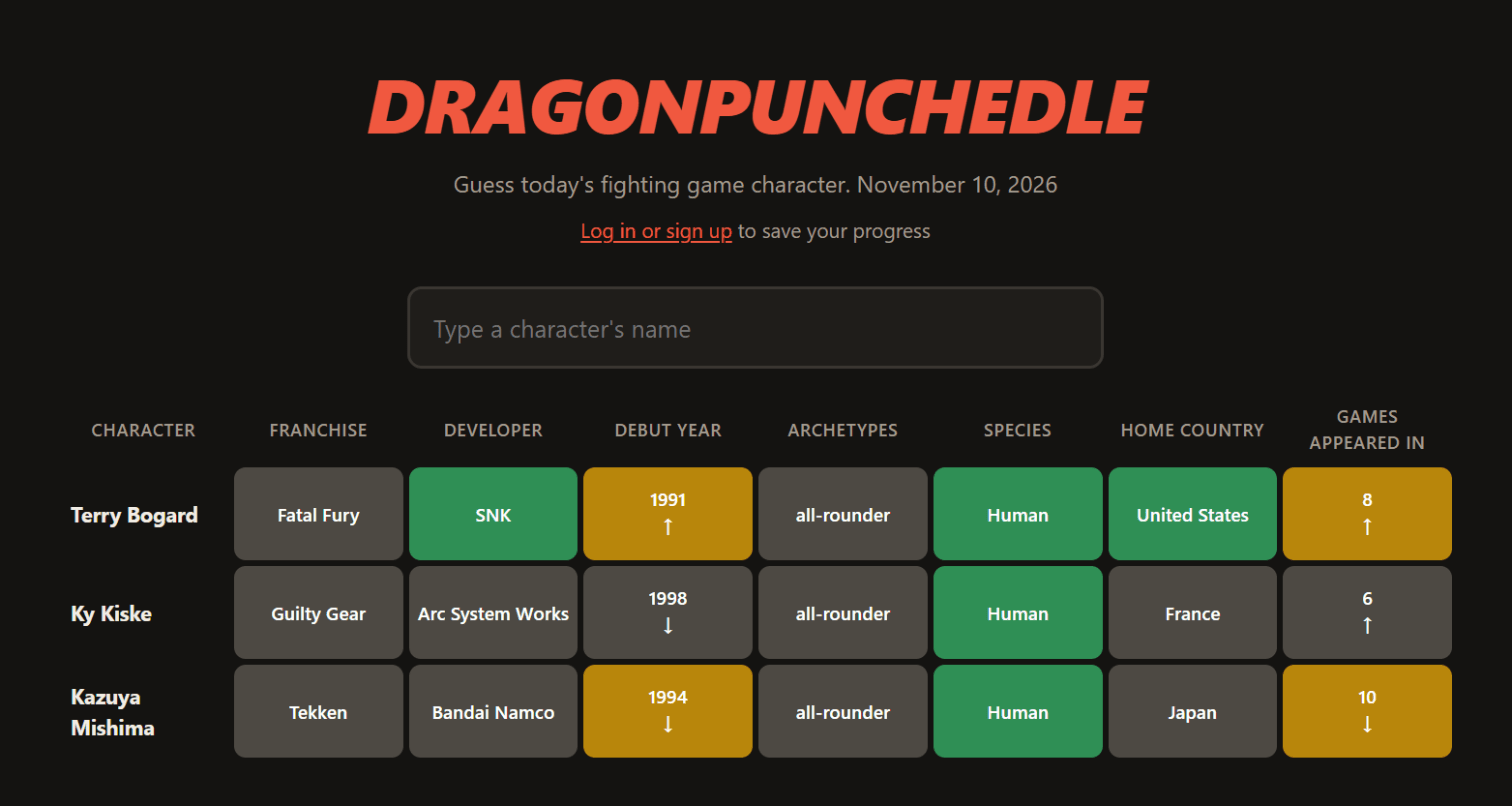
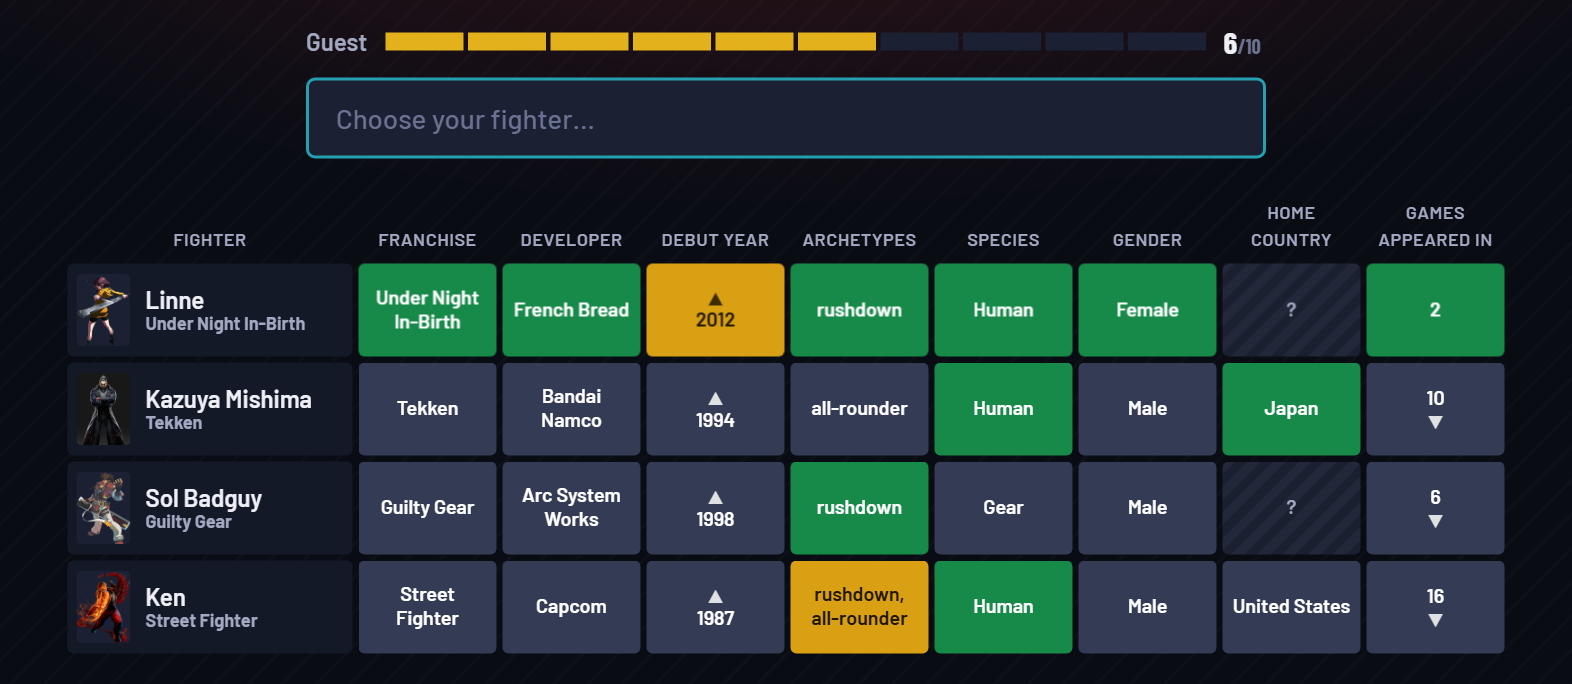
Refresh the README for launch
New screenshots of the current design (a round in progress, the guess
box, and the win screen with the results curve), and the text brought up
to date: Google sign-in on the live site and why Discord is off, guests
stored and counted, the advisory lock behind the guess limit, the results
chart, the guess rate limit, Marvel's initials cards and the Marvel vs.
Capcom counting rule.

The link-preview source is now the HTML page the current image is
rendered from (brand/og-image.html), replacing the old red SVG; npm run
brand renders it with Playwright and reproduces the live PNGs exactly.

diff --git a/apps/web/brand/og-image.html b/apps/web/brand/og-image.html
@@ -1,0 +1,119 @@
+<!doctype html>
+<html>
+  <head>
+    <meta charset="utf-8" />
+    <style>
+      @font-face {
+        font-family: "Barlow Condensed";
+        font-weight: 800;
+        src: url("../../../node_modules/@fontsource/barlow-condensed/files/barlow-condensed-latin-800-normal.woff2") format("woff2");
+      }
+      @font-face {
+        font-family: "Barlow Condensed";
+        font-weight: 700;
+        src: url("../../../node_modules/@fontsource/barlow-condensed/files/barlow-condensed-latin-700-normal.woff2") format("woff2");
+      }
+      @font-face {
+        font-family: "Barlow";
+        font-weight: 500;
+        src: url("../../../node_modules/@fontsource/barlow/files/barlow-latin-500-normal.woff2") format("woff2");
+      }
+      @font-face {
+        font-family: "Barlow";
+        font-weight: 600;
+        src: url("../../../node_modules/@fontsource/barlow/files/barlow-latin-600-normal.woff2") format("woff2");
+      }
+      * { box-sizing: border-box; margin: 0; }
+      html, body { width: 1200px; height: 630px; overflow: hidden; }
+      body {
+        position: relative;
+        color: #eef0f6;
+        font-family: "Barlow", sans-serif;
+        background:
+          radial-gradient(900px 420px at 30% -10%, rgb(255 59 48 / 0.22), transparent 65%),
+          repeating-linear-gradient(135deg, rgb(255 255 255 / 0.025) 0 3px, transparent 3px 22px),
+          #0a0c14;
+      }
+      .left { position: absolute; left: 64px; top: 100px; width: 600px; }
+      .icon { width: 96px; height: 96px; display: block; margin-bottom: 34px; }
+      .logo {
+        font-family: "Barlow Condensed";
+        font-weight: 800;
+        font-size: 78px;
+        line-height: 0.95;
+        letter-spacing: 0.02em;
+        text-transform: uppercase;
+      }
+      .logo span { color: #6fd3df; }
+      .tagline { margin-top: 24px; max-width: 560px; font-size: 32px; font-weight: 500; line-height: 1.3; color: #a3a9c2; }
+      .tagline strong { color: #eef0f6; font-weight: 600; }
+
+      .panel {
+        position: absolute;
+        right: 56px;
+        top: 150px;
+        width: 400px;
+        padding: 30px 28px 32px;
+        background: #141927;
+        clip-path: polygon(22px 0, 100% 0, 100% calc(100% - 22px), calc(100% - 22px) 100%, 0 100%, 0 22px);
+      }
+      .hud { display: flex; align-items: center; gap: 12px; margin-bottom: 26px; }
+      .hud .who { font-weight: 600; color: #a3a9c2; font-size: 20px; }
+      .health { flex: 1; display: flex; gap: 4px; }
+      .health span { flex: 1; height: 16px; background: #1b2133; }
+      .health span.full { background: #e3b11c; }
+      .hud .count { font-family: "Barlow Condensed"; font-weight: 700; font-size: 30px; line-height: 1; }
+      .hud .count small { font-size: 18px; color: #6c7392; }
+      .row { display: grid; grid-template-columns: repeat(4, 1fr); gap: 8px; margin-top: 8px; }
+      .tile {
+        height: 62px;
+        border-radius: 5px;
+        display: grid;
+        place-items: center;
+        font-family: "Barlow Condensed";
+        font-weight: 700;
+        font-size: 24px;
+        color: #fff;
+      }
+      .g { background: #178a49; }
+      .y { background: #d9a014; color: #221800; }
+      .x { background: #343b55; }
+      .caption {
+        margin-top: 22px;
+        font-size: 18px;
+        font-weight: 600;
+        letter-spacing: 0.08em;
+        text-transform: uppercase;
+        color: #6fd3df;
+      }
+    </style>
+  </head>
+  <body>
+    <div class="left">
+      <img class="icon" src="../public/favicon.svg" alt="" />
+      <h1 class="logo">Dragon<span>punched</span>le</h1>
+      <p class="tagline">Guess today's fighting game character. <strong>295 fighters, 18 franchises,</strong> a new one every day.</p>
+    </div>
+
+    <div class="panel">
+      <div class="hud">
+        <span class="who">Today</span>
+        <div class="health">
+          <span class="full"></span><span class="full"></span><span class="full"></span><span class="full"></span>
+          <span class="full"></span><span class="full"></span><span></span><span></span><span></span><span></span>
+        </div>
+        <span class="count">6<small>/10</small></span>
+      </div>
+      <div class="row">
+        <div class="tile g">✓</div><div class="tile y">▲</div><div class="tile x"></div><div class="tile g">✓</div>
+      </div>
+      <div class="row">
+        <div class="tile y"></div><div class="tile g">✓</div><div class="tile x">▼</div><div class="tile y"></div>
+      </div>
+      <div class="row">
+        <div class="tile g">✓</div><div class="tile g">✓</div><div class="tile g">✓</div><div class="tile g">✓</div>
+      </div>
+      <p class="caption">10 guesses · 8 clues</p>
+    </div>
+  </body>
+</html>

diff --git a/README.md b/README.md
@@ -1,21 +1,24 @@
 # Dragonpunchedle
 
-A daily guessing game for fighting game characters. Every day there's one mystery fighter, picked from 295 characters across 18 franchises. Each guess shows how close you are, clue by clue: franchise, developer, debut year, archetypes, species, gender, home country and number of games.
+A daily guessing game for fighting game characters. Every day there's one mystery fighter, picked from 295 characters across 18 franchises, from Street Fighter and Tekken to Guilty Gear, King of Fighters and Marvel Tōkon. You get 10 guesses. Each one shows how close you are, clue by clue: franchise, developer, debut year, archetypes, species, gender, home country and number of games.
 
 **Play it at [dragonpunchedle.onrender.com](https://dragonpunchedle.onrender.com).** It runs on a free server that sleeps when nobody is playing, so the first visit after a quiet spell can take about a minute to load.
 
-![A game in progress: three guesses with green, yellow and grey clue tiles and higher or lower arrows](docs/screenshot-board.png)
+![A round in progress: a health bar with 6 of 10 guesses left, and four guesses with green, yellow and grey clue tiles, arrows and character portraits](docs/screenshot-board.png)
 
 - 🟩 **Green:** an exact match.
 - 🟨 **Yellow:** close. That means a shared archetype, a country on the same continent, or a number near the answer.
 - ⬛ **Grey:** not it.
-- **Arrows:** whether the answer's year or game count is higher or lower.
-
-Play as a guest, or sign in (with Discord, Google, or a username) to keep your board on every device, build a streak and appear on the leaderboards. When you win, share a spoiler-free grid of squares.
+- **Arrows:** the answer's year or game count is higher (▲, above the value) or lower (▼, below it).
+- The **health bar** is your guesses left: green, then yellow, then red for the last 3.
 
 The guess box suggests names as you type. It ignores capitals, accents and punctuation, and works from the keyboard or a screen reader.
 
 ![The guess box suggesting characters whose names contain "ch", each with its franchise](docs/screenshot-search.png)
+
+When the round ends you get the character's portrait and a curve of how everyone did today, with your result marked. Share a spoiler-free grid of squares, or sign in with Google or a username to keep a streak and appear on the leaderboards.
+
+![A win screen: the character's portrait and name, a 5 out of 10 score, and a curve of today's results with the player's position marked: better than 65% of today's players](docs/screenshot-result.png)
 
 ## Stack
 
@@ -42,7 +45,7 @@ flowchart LR
   player -- "page and JSON API<br/>same origin, session cookie" --> api
   api --- page
   api --> db
-  job -- "picks answers ahead<br/>removes expired sessions" --> db
+  job -- "picks answers ahead<br/>removes expired sessions<br/>and old guest guesses" --> db
 ```
 
 One container serves both the page and the API. Because they share an origin, the login cookie needs no cross-site setup, and only one service has to be deployed.
@@ -69,23 +72,27 @@ The comparison logic is written once per kind. Adding a clue is one line in [`cl
 **The daily job is idempotent and runs hourly.** It doesn't try to fire at exactly midnight. Every step gives the same result whether it runs once, twice, or on two servers at the same moment, so a restart or a missed run can't leave a day without a puzzle. Answers are picked a week ahead. If two requests race to pick the same day, the database's unique key decides, and both get the same answer ([`jobs/daily.ts`](apps/api/src/jobs/daily.ts), [`game/puzzles.ts`](apps/api/src/game/puzzles.ts)).
 
 **Accounts** ([`auth/`](apps/api/src/auth)):
-- **Sign in with Discord or Google** uses OAuth 2.0's authorization code flow, with a single-use `state` cookie against forged callbacks and PKCE where the provider supports it ([`auth/oauth.ts`](apps/api/src/auth/oauth.ts)). It asks only for an id and a name, never an email. The token is used once to read the profile, then dropped.
+- **Sign in with Google** uses OAuth 2.0's authorization code flow, with a single-use `state` cookie against forged callbacks and PKCE ([`auth/oauth.ts`](apps/api/src/auth/oauth.ts)). It asks only for an id and a name, never an email. The token is used once to read the profile, then dropped. A provider only appears when its keys are set. Discord sign-in is built and tested but switched off on the live site: Chrome's phishing protection flagged its callback, because Discord account-stealing pages on shared free hosts look just like it. A custom domain would be the fix.
 - **Weak passwords are refused** at sign-up. [zxcvbn](https://github.com/zxcvbn-ts/zxcvbn) estimates how guessable a password is (common passwords, keyboard patterns, l33t speak, the username), as current NIST guidance suggests, instead of "one capital, one symbol" rules. The sign-up form imports the same file for its strength meter, so the page and the server never disagree.
 - **Passwords** are hashed with scrypt, with a random salt each, and compared in constant time.
 - **No username probing:** a login for an unknown user takes as long as one with a wrong password, and gets the same message.
 - **Session tokens** are random. Only a SHA-256 of each is stored, so a leaked database can't be used to log in.
 - **The cookie** is `HttpOnly`, `SameSite=Lax`, and `Secure` in production.
 - **Security headers** ([@fastify/helmet](https://github.com/fastify/fastify-helmet)): a Content-Security-Policy that only runs the site's own scripts, no framing by other sites, HSTS, `nosniff` and `no-referrer`.
-- **Rate limiting:** login and sign-up are limited per IP. Behind a proxy, that only works if the proxy is trusted for the real client address (`TRUST_PROXY`), otherwise every player shares one limit.
+- **Rate limiting:** login and sign-up are limited per IP, and so are guesses (120 a minute: plenty for a person, a brake on a script). Behind a proxy, that only works if the proxy is trusted for the real client address (`TRUST_PROXY`), otherwise every player shares one limit.
 
 **Migrations are plain SQL**, run by a small runner ([`db/migrate.ts`](apps/api/src/db/migrate.ts)):
 - each file runs in its own transaction;
 - applied files are recorded, so running again only applies new ones;
 - a Postgres advisory lock stops two server instances from migrating at once.
 
-**Ten guesses a day, enforced by the database.** For logged-in players, the checks (already solved? already guessed? out of guesses?) and the insert run in one transaction that first locks the player's row, so two guesses sent at the same moment can't both become the 10th. A test fires 15 at once and gets exactly 10 ([`db/guesses.ts`](apps/api/src/db/guesses.ts)). The answer is sent only with a missed 10th guess.
+**Ten guesses a day, enforced by the database.** The checks (already solved? already guessed? out of guesses?) and the insert run in one transaction that first takes a Postgres advisory lock for that player, so two guesses sent at the same moment can't both become the 10th. A test fires 15 at once and gets exactly 10 ([`db/guesses.ts`](apps/api/src/db/guesses.ts)). The answer is sent only with a missed 10th guess.
 
-**Character portraits live in the database, not in this repository.** The art belongs to each game's publisher. Keeping it out of the public repo means a takedown request can never put the code at risk, and removing a franchise is one command with no redeploy. A small CLI ([`portraits/cli.ts`](apps/api/src/portraits/cli.ts)) downloads source images into a git-ignored folder, crops them to 240×320 WebP cards with sharp, and stores them with an ownership credit. Images are served with a one-day cache and a hash in the address, so a replaced image shows up at once and a removed one disappears within a day:
+**Guests are players too.** A guest's first guess gives the browser an anonymous id in an `HttpOnly` cookie (24 random bytes, nothing personal), and their guesses are stored under it. So a guest's board survives a reload, the 10-guess limit is enforced on the server for them as well, and they count in the results chart. Logging in moves that browser's guesses for today into the account, so nobody is counted twice. Guest guesses are deleted after 30 days by the daily job ([`auth/guests.ts`](apps/api/src/auth/guests.ts)).
+
+**The results chart** is a smooth curve of how everyone finished today, from 1 guess to K.O. One SQL query counts finished rounds only, so a round in progress isn't a loss ([`db/stats.ts`](apps/api/src/db/stats.ts)). The page draws it as an SVG at its real width (so labels stay readable on phones), adding a small Gaussian bump per result. Hovering shows exact counts, and a hidden table gives screen readers the numbers ([`ResultsChart.tsx`](apps/web/src/ResultsChart.tsx)).
+
+**Character portraits live in the database, not in this repository.** The art belongs to each game's publisher. Keeping it out of the public repo means a takedown request can never put the code at risk, and removing a franchise is one command with no redeploy. A small CLI ([`portraits/cli.ts`](apps/api/src/portraits/cli.ts)) downloads source images into a git-ignored folder, crops them to 240×320 WebP cards with sharp, and stores them with an ownership credit. Images are served with a one-day cache and a hash in the address, so a replaced image shows up at once and a removed one disappears within a day. Characters without a portrait (all of Marvel Tōkon, by choice) show an initials card instead:
 
 ```bash
 npm run portraits -- status                          # which characters still need one
@@ -101,6 +108,8 @@ npm run portraits -- remove --franchise "Tekken"     # takedown
 - archetypes and species must come from fixed lists;
 - a misspelled country fails;
 - duplicate characters fail.
+
+The rules for each clue are written next to it in [`clues.ts`](apps/api/src/game/clues.ts). For example, games appeared in counts a series' own fighting games, never crossovers, with one deliberate exception: the Marvel vs. Capcom series counts for both its Marvel and its Capcom characters.
 
 The server syncs the roster on every start, so corrected data only needs a redeploy.
 
@@ -139,7 +148,7 @@ apps/
   api/
     src/
       game/        clue definitions, comparison, daily answers, roster validation
-      auth/        passwords, sessions, Discord/Google sign-in
+      auth/        passwords, sessions, guest ids, Google/Discord sign-in
       db/          queries, migration runner, seeding
       routes/      HTTP endpoints
       jobs/        daily job and scheduler
